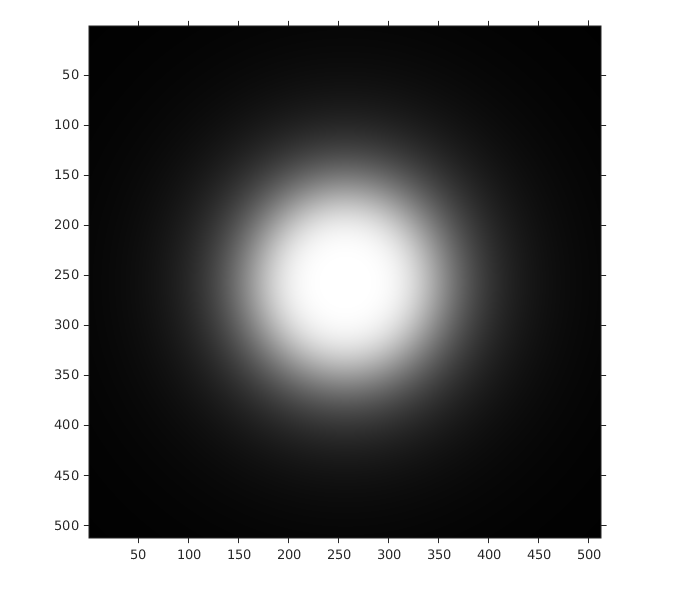
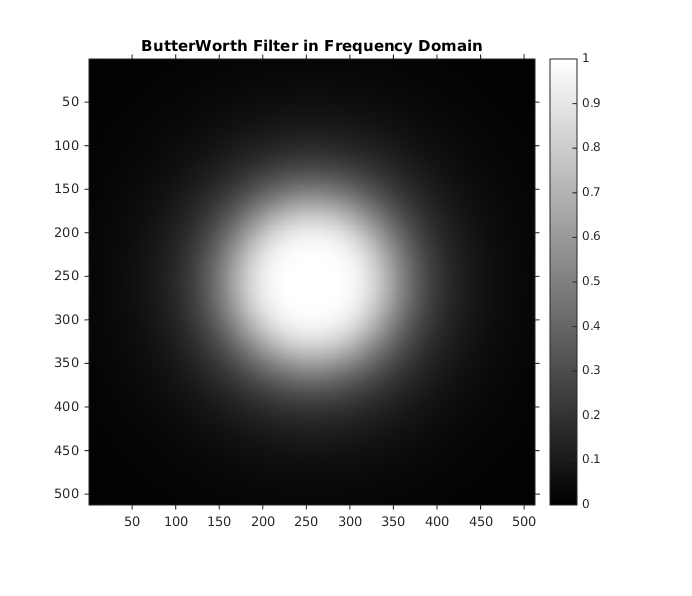
Final report Done with Editing

diff --git a/assig-3/1/report/myMainScript.html b/assig-3/1/report/myMainScript.html
@@ -66,19 +66,24 @@ table td { padding:7px 5px; text-align:left; vertical-align:top; border:1px soli
 
 
 
-  </style></head><body><div class="content"><h2>Contents</h2><div><ul><li><a href="#1">MyMainScript</a></li><li><a href="#2">ButterWorth Filter Part</a></li><li><a href="#3">Energy Radius Part</a></li></ul></div><h2>MyMainScript<a name="1"></a></h2><pre class="codeinput">tic;
+  </style></head><body><div class="content"><h2>Contents</h2><div><ul>
+  <li><a href="#1">MyMainScript</a></li>
+  <li><a href="#2">ButterWorth Filter Part</a></li>
+  <li><a href="#3">Energy Radius Part</a></li>
+
+  </ul></div><h2>MyMainScript<a name="1"></a></h2><pre class="codeinput">tic;
 
 <span class="comment">%Take Input</span>
 inputStruct = load(<span class="string">'../data/boat.mat'</span>);
 inputImage = inputStruct.imageOrig;
 [ img_x, img_y ] = size(inputImage);
 
-<span class="comment">% min(RMSD) = at D0* = 86</span>
-d0 = 83;
+<span class="comment">% min(RMSD) = at D0* = 84</span>
+d0 = 84;
 
 <span class="comment">% Display the ButterWorth Filter (2nd order ,ctuoff =83)</span>
 [H, filteredImage] = myButterWorthFiltering(inputImage,2,d0);
-imshow(H);
+imshow(H),colorbar;title(<span class="string">'ButterWorth Filter in Frequency Domain'</span>)
 </pre><img vspace="5" hspace="5" src="myMainScript_01.png" alt=""> <h2>ButterWorth Filter Part<a name="2"></a></h2><pre class="codeinput">frequency_cutoff_array = [.95, 1 ,1.05];
 
 <span class="keyword">for</span> i=1:3
@@ -109,18 +114,36 @@ imshow(H);
 			title(<span class="string">'Noisy Image'</span>)
 			subplot(1,3,3);
 			imshow(mat2gray(filteredImage)), colorbar;
-			title(<span class="string">'Filtered Image'</span>)
+			title([<span class="string">'Filtered Image for D0*'</span> num2str(frequency_cutoff_array(i))])
 
 		<span class="comment">%Save Image</span>
 		name = strcat([<span class="string">'../images/butterworth_filter_final_'</span> num2str(frequency_cutoff_array(i)) <span class="string">'.'</span>]);
 		file_name = strcat([name <span class="string">'png'</span>])
 		imwrite(mat2gray(filteredImage),file_name);
 <span class="keyword">end</span>
-</pre><pre class="codeoutput error">Undefined function 'imnoise' for input arguments of type 'single'.
+</pre><pre class="codeoutput">
+</pre>
 
-Error in myMainScript (line 27)
-	noisyImage = imnoise(normazlizedImage,'gaussian',0,0.01)*255;
-</pre><h2>Energy Radius Part<a name="3"></a></h2><pre class="codeinput"><span class="comment">% The Following Table encapsulates the enrgy percent vs Radii data</span>
+
+<h2>
+RMSD =11.2081
+</h2>
+<img vspace="5" hspace="5" src="myMainScript_02.png" alt=""> 
+
+
+<h2>
+RMSD =11.2473
+</h2>
+<img vspace="5" hspace="5" src="myMainScript_03.png" alt=""> 
+
+<h2>
+RMSD =11.2799
+</h2>
+<img vspace="5" hspace="5" src="myMainScript_04.png" alt=""> 
+
+
+
+<h2>Energy Radius Part<a name="3"></a></h2><pre class="codeinput"><span class="comment">% The Following Table encapsulates the enrgy percent vs Radii data</span>
     <span class="comment">%  93.59 - 4</span>
     <span class="comment">%  90.69 - 2.225</span>
     <span class="comment">%  90.53 - 1.4</span>
@@ -154,118 +177,66 @@ percentage_array = [0,0,0,0,0];
 	<span class="comment">% Applying the Filter to the  Orig Image</span>
 	inverseImage = ifft2(filteredImage);
 	outputImage=sqrt(real(inverseImage).^2+imag(inverseImage).^2);
-	imshow(mat2gray(outputImage)),colorbar; title([<span class="string">'Image with filter of radius = '</span> num2str(radius_array(i))]);
+
+	<span class="comment">%Display Images</span>
+			iptsetpref(<span class="string">'ImshowAxesVisible'</span>,<span class="string">'on'</span>);
+			figure(<span class="string">'units'</span>,<span class="string">'normalized'</span>,<span class="string">'outerposition'</span>,[0 0 1 1])
+			mainFig= subplot(1,2,1);
+			imshow(mat2gray(inputImage)), colorbar;
+			title(<span class="string">'Original Image'</span>)
+			subplot(1,2,2);
+			imshow(mat2gray(outputImage)), colorbar;
+			title([<span class="string">'Image with filter of radius = '</span> num2str(radius_array(i))]);
+	<span class="comment">%Save Image</span>
+		name = strcat([<span class="string">'../images/energy_analysis_final_'</span> num2str(nearest_percentage_array(i)) <span class="string">'.'</span>]);
+		file_name = strcat([name <span class="string">'png'</span>])
+		imwrite(mat2gray(outputImage),file_name);
 
 	<span class="comment">%Calculating RMSD between Orig Image and Filtered Image</span>
 	diffImage = outputImage - inputImage;
 	RMSD = sqrt(sum(sum(diffImage.^2))/(img_y*img_x));
 	RMSD_array(i) = RMSD;
-	disp([<span class="string">'RMSD ='</span> RMSD]);
+	disp([<span class="string">'RMSD ='</span> num2str(RMSD)]);
 <span class="keyword">end</span>
 toc;
-</pre><p class="footer"><br><a href="http://www.mathworks.com/products/matlab/">Published with MATLAB&reg; R2014b</a><br></p></div><!--
-##### SOURCE BEGIN #####
-%% MyMainScript
-
-tic;
-
-%Take Input 
-inputStruct = load('../data/boat.mat');
-inputImage = inputStruct.imageOrig;
-[ img_x, img_y ] = size(inputImage);
-
-% min(RMSD) = at D0* = 86
-d0 = 83;
-
-% Display the ButterWorth Filter (2nd order ,ctuoff =83)
-[H, filteredImage] = myButterWorthFiltering(inputImage,2,d0);
-imshow(H);
+</pre><pre class="codeoutput">
 
 
-%% ButterWorth Filter Part 
-frequency_cutoff_array = [.95, 1 ,1.05];	
-
-for i=1:3
-
-	%Normalize Image to range(0,1)
-	normazlizedImage = inputImage/255;
-
-	%Add gaussion noise with s.d = .1 and mean =0
-	noisyImage = imnoise(normazlizedImage,'gaussian',0,0.01)*255;
-
-	% Apply Filter
-	[H, filteredImage] = myButterWorthFiltering(noisyImage,2,frequency_cutoff_array(i)*d0);
-		
-		%Calculating RMSD
-		diffImage = filteredImage - inputImage;
-		RMSD = sqrt(sum(sum(diffImage.^2))/(img_y*img_x));
-
-		disp(['RMSD =' num2str(RMSD)]);
-
-		%Display Images
-			iptsetpref('ImshowAxesVisible','on');
-			figure('units','normalized','outerposition',[0 0 1 1])
-			mainFig= subplot(1,3,1);
-			imshow(mat2gray(inputImage)), colorbar;
-			title('Input Image')
-			subplot(1,3,2);
-			imshow(mat2gray(noisyImage)), colorbar;
-			title('Noisy Image')
-			subplot(1,3,3);
-			imshow(mat2gray(filteredImage)), colorbar;
-			title('Filtered Image')
-
-		%Save Image	
-		name = strcat(['../images/butterworth_filter_final_' num2str(frequency_cutoff_array(i)) '.']);
-		file_name = strcat([name 'png'])
-		imwrite(mat2gray(filteredImage),file_name);
-end
-
-%% Energy Radius Part
-
-% The Following Table encapsulates the enrgy percent vs Radii data
-    %  93.59 - 4
-    %  90.69 - 2.225
-    %  90.53 - 1.4
-    %  97.13 - 15
-    %  99.026 - 60
-
-nearest_percentage_array = [88,91,94,97,99];
-radius_array = [1.422,2.225,4,15,60];
-RMSD_array = [0,0,0,0,0];
-percentage_array = [0,0,0,0,0];
-
-for i=1:5
-	
-	F=fft2(inputImage);
-	F=fftshift(F);
-	
-	%Calculating the Energy of Fourier Transform
-	Energy = sum(sum((abs(F)).^2));
-	
-	% Deduce Filter for image
-	diskfilter = diskFilter(F,radius_array(i));
-	filteredImage = F.*diskfilter;
-	
-	%Calculate Percentage Energy in disked image
-	FilteredImageEnergy = sum(sum(abs(filteredImage).^2));
-	percentage = FilteredImageEnergy/Energy*100;
-	percentage_array(i) = percentage;
-	disp(['Percentage = ' num2str(percentage)]);
 
 
-	% Applying the Filter to the  Orig Image
-	inverseImage = ifft2(filteredImage);
-	outputImage=sqrt(real(inverseImage).^2+imag(inverseImage).^2);
-	imshow(mat2gray(outputImage)),colorbar; title(['Image with filter of radius = ' num2str(radius_array(i))]);
+Elapsed time is 26.176595 seconds.
+</pre>
 
-	%Calculating RMSD between Orig Image and Filtered Image
-	diffImage = outputImage - inputImage;
-	RMSD = sqrt(sum(sum(diffImage.^2))/(img_y*img_x));
-	RMSD_array(i) = RMSD;
-	disp(['RMSD =' RMSD]);
-end
-toc;
 
-##### SOURCE END #####
---></body></html>
+
+<h2>
+Percentage = 90.5633 RMSD =40.0996
+</h2>
+<img vspace="5" hspace="5" src="myMainScript_05.png" alt="">
+
+
+<h2>
+Percentage = 90.6931 RMSD =39.7017
+</h2>
+<img vspace="5" hspace="5" src="myMainScript_06.png" alt=""> 
+
+
+<h2>
+Percentage = 93.5549 RMSD =33.8558
+</h2>
+<img vspace="5" hspace="5" src="myMainScript_07.png" alt=""> 
+
+
+<h2>
+Percentage = 97.1304 RMSD =23.1122
+</h2>
+<img vspace="5" hspace="5" src="myMainScript_08.png" alt=""> 
+
+<h2>
+Percentage = 99.026 RMSD =13.5454
+</h2>
+<img vspace="5" hspace="5" src="myMainScript_09.png" alt=""> 
+
+
+<p class="footer"><br><a href="http://www.mathworks.com/products/matlab/">Published with MATLAB&reg; R2014b</a><br></p></div><!--
+</body></html>

diff --git a/assig-3/1/code/myMainScript.m b/assig-3/1/code/myMainScript.m
@@ -7,12 +7,12 @@ inputStruct = load('../data/boat.mat');
 inputImage = inputStruct.imageOrig;
 [ img_x, img_y ] = size(inputImage);
 
-% min(RMSD) = at D0* = 86
-d0 = 83;
+% min(RMSD) = at D0* = 84
+d0 = 84;
 
 % Display the ButterWorth Filter (2nd order ,ctuoff =83)
 [H, filteredImage] = myButterWorthFiltering(inputImage,2,d0);
-imshow(H);
+imshow(H),colorbar;title('ButterWorth Filter in Frequency Domain')
 
 
 %% ButterWorth Filter Part 
@@ -46,7 +46,7 @@ for i=1:3
 			title('Noisy Image')
 			subplot(1,3,3);
 			imshow(mat2gray(filteredImage)), colorbar;
-			title('Filtered Image')
+			title(['Filtered Image for D0*' num2str(frequency_cutoff_array(i))])
 
 		%Save Image	
 		name = strcat(['../images/butterworth_filter_final_' num2str(frequency_cutoff_array(i)) '.']);
@@ -90,12 +90,25 @@ for i=1:5
 	% Applying the Filter to the  Orig Image
 	inverseImage = ifft2(filteredImage);
 	outputImage=sqrt(real(inverseImage).^2+imag(inverseImage).^2);
-	imshow(mat2gray(outputImage)),colorbar; title(['Image with filter of radius = ' num2str(radius_array(i))]);
+
+	%Display Images
+			iptsetpref('ImshowAxesVisible','on');
+			figure('units','normalized','outerposition',[0 0 1 1])
+			mainFig= subplot(1,2,1);
+			imshow(mat2gray(inputImage)), colorbar;
+			title('Original Image')
+			subplot(1,2,2);
+			imshow(mat2gray(outputImage)), colorbar;
+			title(['Image with filter of radius = ' num2str(radius_array(i))]);
+	%Save Image	
+		name = strcat(['../images/energy_analysis_final_' num2str(nearest_percentage_array(i)) '.']);
+		file_name = strcat([name 'png'])
+		imwrite(mat2gray(outputImage),file_name);
 
 	%Calculating RMSD between Orig Image and Filtered Image
 	diffImage = outputImage - inputImage;
 	RMSD = sqrt(sum(sum(diffImage.^2))/(img_y*img_x));
 	RMSD_array(i) = RMSD;
-	disp(['RMSD =' RMSD]);
+	disp(['RMSD =' num2str(RMSD)]);
 end
 toc;
